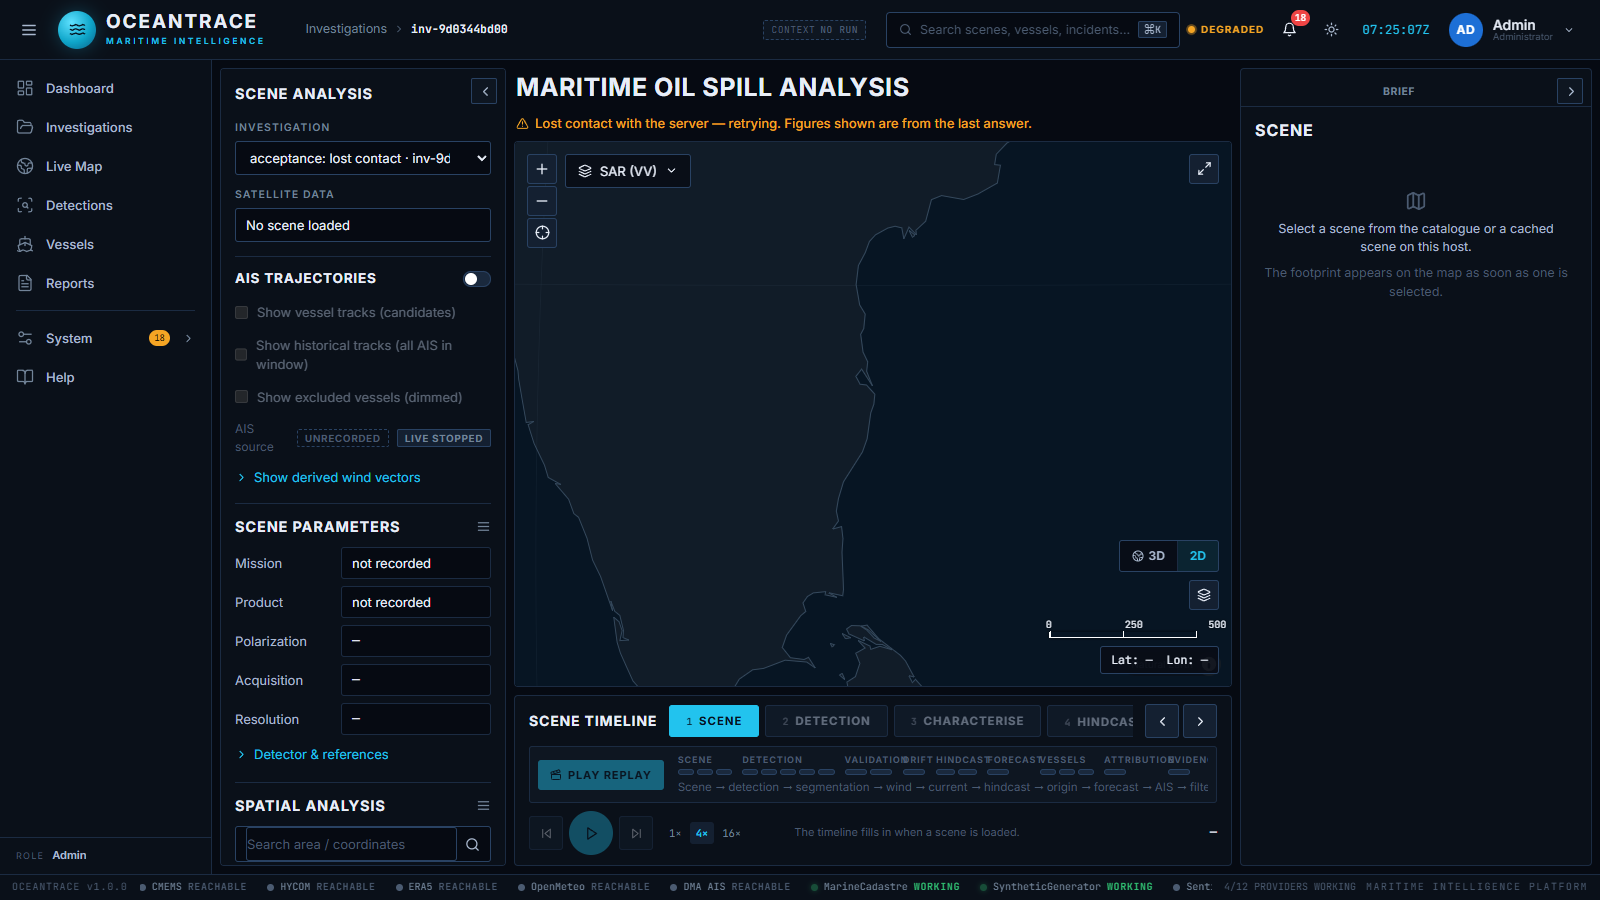
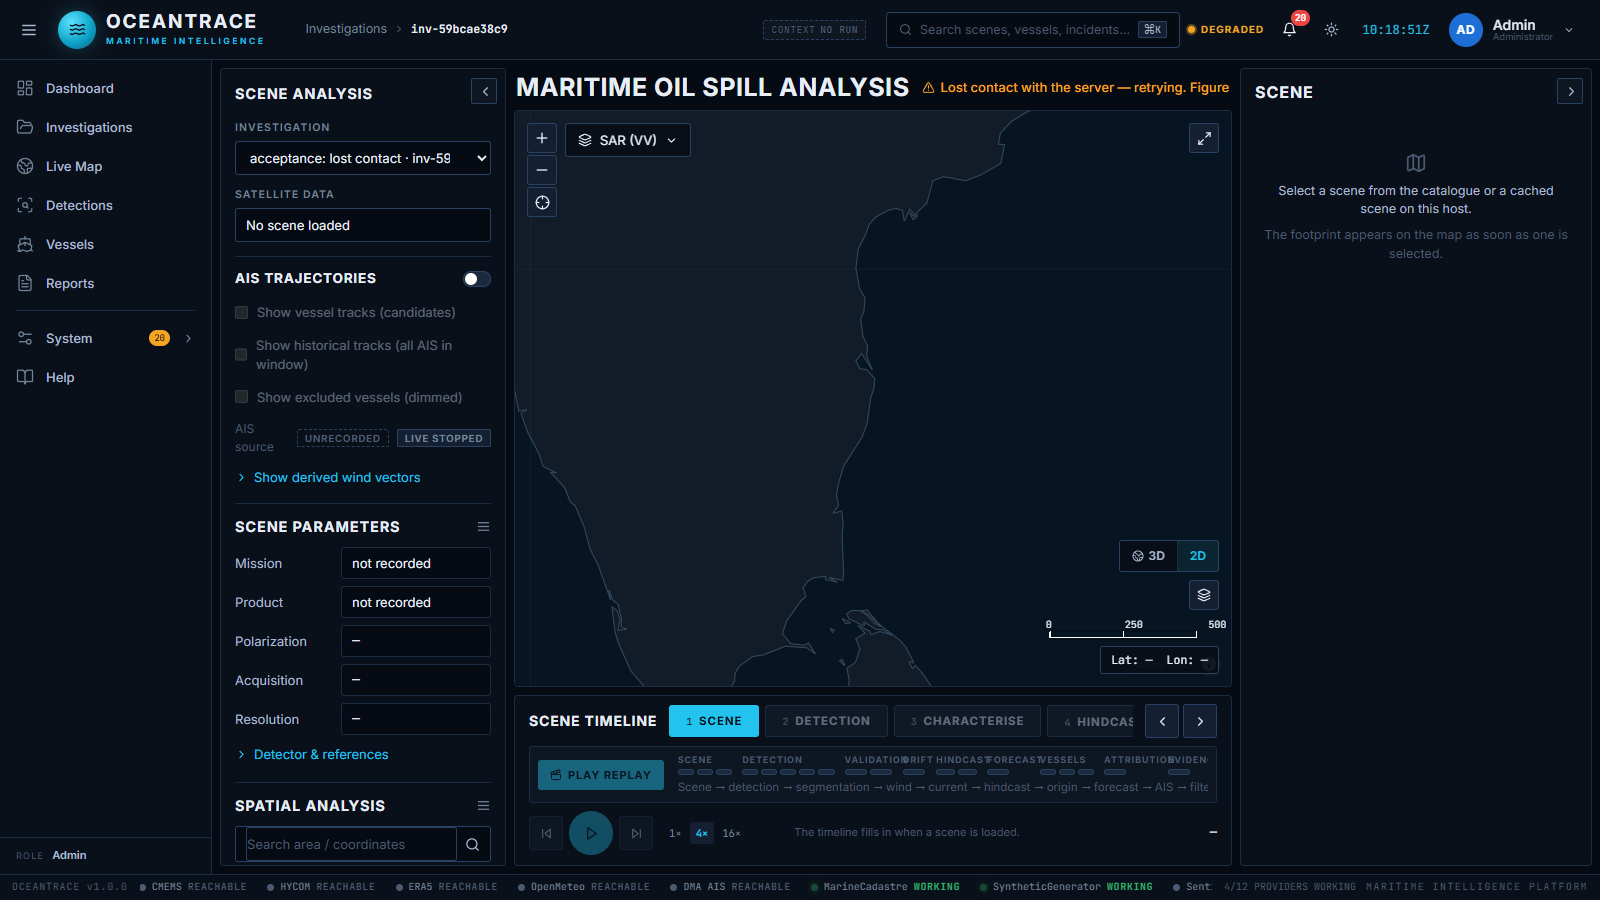
Analysis workspace restored to the old visual on the new engine: overlaid deck canvas, zoom-driven projection, camera released before load, compact header

diff --git a/main_system/frontend/src/components/maps/MaritimeGlobe.jsx b/main_system/frontend/src/components/maps/MaritimeGlobe.jsx
@@ -28,6 +28,18 @@ import "./maps.css";
 maplibregl.config.MAX_PARALLEL_IMAGE_REQUESTS = 4;
 export const SAR_TILE_MIN_ZOOM = 10;
 
+/* Globe when the view is of the planet, flat chart when it is of a region.
+ * While MapLibre reports a globe projection, deck draws through its globe
+ * view at EVERY zoom, and that view cannot draw billboard text, dashed paths
+ * or trips -- the workspace's callouts, AIS gaps and drift trail. So the
+ * projection follows the zoom, with hysteresis so a view hovering at the
+ * threshold does not flip back and forth. */
+const FLAT_AT = 5.0;
+const GLOBE_AT = 4.4;
+/** @param {number} zoom @param {"globe"|"mercator"} current @returns {"globe"|"mercator"} */
+export const projectionFor = (zoom, current) => (
+  current === "mercator" ? (zoom < GLOBE_AT ? "globe" : "mercator") : (zoom >= FLAT_AT ? "mercator" : "globe"));
+
 /** The run's quicklook. One URL for the whole app: the map and the analysis
  *  panels show the same image, so it is fetched once and served from cache
  *  rather than rendered three times from a 600 Mpx raster (BACKEND_GAPS G15). */
@@ -64,10 +76,16 @@ export function withSar(style, sar, origin) {
   };
 }
 
-/** @param {{layers: any[], onReady: (o: MapboxOverlay) => void}} props */
+/* OVERLAID, not interleaved. Interleaved draws deck's layers into MapLibre's
+ * own depth buffer, where everything at sea level fights the globe surface for
+ * the same depth: fills break into specks, text disappears, glow trails thin
+ * to nothing (seen side by side against the pre-refactor workspace). Overlaid
+ * gives deck its own canvas above the map, registered to the same camera
+ * (0.0 px in both projections -- GLOBE_ARCHITECTURE.md section 2).
+ * @param {{layers: any[], onReady: (o: MapboxOverlay) => void}} props */
 function DeckOverlay({ layers, onReady }) {
   const overlay = /** @type {MapboxOverlay} */ (/** @type {unknown} */ (
-    useControl(() => /** @type {any} */ (new MapboxOverlay({ interleaved: true, layers: [] })))));
+    useControl(() => /** @type {any} */ (new MapboxOverlay({ interleaved: false, layers: [] })))));
   useEffect(() => { onReady(overlay); }, [overlay, onReady]);
   overlay.setProps({ layers });
   return null;
@@ -107,19 +125,21 @@ const MaritimeGlobe = forwardRef(function MaritimeGlobe(/** @type {GlobeProps} *
   /** A flight asked for before the map loaded (a deep link's first act). */
   const pending = useRef(/** @type {null | [Partial<Camera>, number]} */ (null));
   const ready = useRef(false);
+  const pendingFit = useRef(/** @type {null | [number[], number, any]} */ (null));
   const [hovering, setHovering] = useState(false);
   const [sarState, setSarState] = useState(/** @type {"idle"|"loading"|"ready"|"error"} */ ("idle"));
-  const [view, setView] = useState({ zoom: initialCamera.zoom, projection: "globe" });
+  const [view, setView] = useState(/** @type {{zoom: number, projection: "globe"|"mercator"}} */ ({
+    zoom: initialCamera.zoom, projection: projectionFor(initialCamera.zoom, "globe") }));
 
   const origin = typeof window !== "undefined" ? window.location.origin : "";
   const resolved = resolveBasemap(basemap, MAP_CONFIG);
   const showKey = JSON.stringify(show || {});
   const sarKey = sar && sar.visible !== false ? `${sar.runId}|${sar.bbox?.join(",")}` : "";
   const style = useMemo(
-    () => withSar(buildStyle({ basemap, theme, graticule, show, origin }), sar, origin),
+    () => withSar(buildStyle({ basemap, theme, graticule, show, origin, projection: view.projection }), sar, origin),
     // `show` and `sar` are compared by value: callers pass fresh literals.
     // eslint-disable-next-line react-hooks/exhaustive-deps
-    [basemap, theme, graticule, showKey, sarKey, origin]);
+    [basemap, theme, graticule, showKey, sarKey, origin, view.projection]);
 
   const cameraOf = () => {
     const m = mapRef.current?.getMap?.();
@@ -145,13 +165,16 @@ const MaritimeGlobe = forwardRef(function MaritimeGlobe(/** @type {GlobeProps} *
       // than the camera looping out to orbit and back.
       else m.flyTo({ ...opts, duration: ms, curve: 1.1, essential: true });
     },
-    /** @param {number[]} bbox @param {number} [ms] */
-    fitBounds: (bbox, ms = 1400) => {
+    /** Frame a [w, s, e, n] box. The map does the fitting: it knows its real
+     *  size, and a caller computing a zoom before the map exists gets it wrong.
+     *  @param {number[]} bbox @param {number} [ms] @param {{padding?: number, maxZoom?: number}} [o] */
+    fitBounds: (bbox, ms = 1400, o = {}) => {
       const m = mapRef.current?.getMap?.();
-      if (!m) return;
+      if (!m || !ready.current) { pendingFit.current = [bbox, ms, o]; return; }
       const el = m.getContainer();
-      api.flyTo({ longitude: (bbox[0] + bbox[2]) / 2, latitude: (bbox[1] + bbox[3]) / 2,
-        zoom: zoomForBbox(bbox, el.clientWidth, el.clientHeight) }, ms);
+      const cam = m.cameraForBounds([[bbox[0], bbox[1]], [bbox[2], bbox[3]]], { padding: o.padding ?? 70 });
+      const zoom = Math.min(cam?.zoom ?? zoomForBbox(bbox, el.clientWidth, el.clientHeight), o.maxZoom ?? 16);
+      api.flyTo({ longitude: (bbox[0] + bbox[2]) / 2, latitude: (bbox[1] + bbox[3]) / 2, zoom, bearing: 0, pitch: 0 }, ms);
     },
     /** @param {number} d */
     zoomBy: (d) => mapRef.current?.getMap?.()?.easeTo({ zoom: (mapRef.current.getMap().getZoom() || 0) + d, duration: 300 }),
@@ -204,11 +227,26 @@ const MaritimeGlobe = forwardRef(function MaritimeGlobe(/** @type {GlobeProps} *
   };
   useEffect(() => () => cancelAnimationFrame(hoverFrame.current), []);
 
+  /* The camera is usable as soon as the map object exists and its style has
+   * arrived. It must NOT wait for MapLibre's `load`: that event waits for every
+   * source, and the SAR quicklook of a large scene takes ~20 s to render, so a
+   * deep link to the detection stage sat at the default view for 20 seconds. */
+  const flushPending = () => {
+    if (!mapRef.current?.getMap?.()) return;
+    ready.current = true;
+    const p = pending.current; pending.current = null;
+    const f = pendingFit.current; pendingFit.current = null;
+    if (f) api.fitBounds(f[0], Math.min(f[1], 900), f[2]); else if (p) api.flyTo(p[0], Math.min(p[1], 900));
+  };
+
   /** @param {boolean} end */
   const report = (end) => {
     const c = cameraOf();
     if (!c) return;
-    if (end) setView({ zoom: c.zoom, projection: mapRef.current?.getMap?.()?.getProjection?.()?.type || "globe" });
+    // Decided when a move ENDS, never during one: changing projection swaps
+    // the style, and a style swap mid-flight aborts the flight (a flight from
+    // the default view to the Gulf of Mexico stopped over Mozambique).
+    if (end) setView((v) => ({ zoom: c.zoom, projection: projectionFor(c.zoom, v.projection) }));
     onCameraChange?.(c, { end });
   };
   const lastMove = useRef(0);
@@ -258,7 +296,8 @@ const MaritimeGlobe = forwardRef(function MaritimeGlobe(/** @type {GlobeProps} *
         cursor={cursor || (hovering ? "pointer" : "grab")}
         onMove={() => { const now = performance.now(); if (now - lastMove.current > 120) { lastMove.current = now; report(false); } }}
         onMoveEnd={() => report(true)}
-        onLoad={() => { ready.current = true; const p = pending.current; pending.current = null; if (p) api.flyTo(p[0], Math.min(p[1], 900)); report(true); }}
+        onStyleData={flushPending}
+        onLoad={() => { flushPending(); report(true); }}
         onClick={(e) => { const info = infoAt(e); if (!toLayer("onClick", info)) onClick?.(info); }}
         onMouseMove={handleMove}
         onMouseOut={() => { setHovering(false); onHover?.({ object: null, layer: null, coordinate: undefined }); }}
@@ -271,7 +310,9 @@ const MaritimeGlobe = forwardRef(function MaritimeGlobe(/** @type {GlobeProps} *
           Satellite basemap not configured — showing the vector basemap
         </div>
       )}
-      {sarState === "loading" && (
+      {/* Only while the quicklook is what the view needs: from z10 the tile
+          pyramid draws the scene and the quicklook is irrelevant. */}
+      {sarState === "loading" && view.zoom < SAR_TILE_MIN_ZOOM && (
         <div className="mg-note mg-note-busy" role="status" data-testid="sar-note">
           <span className="spinner" /> Loading SAR scene…
         </div>

diff --git a/main_system/frontend/src/pages/Investigation.jsx b/main_system/frontend/src/pages/Investigation.jsx
@@ -66,24 +66,21 @@ const LAYER_STAGE = {
 const isoDay = (d) => new Date(d).toISOString().slice(0, 10);
 
 /** Strip the map's own report marker, so a derived view reads as a command. */
-const stripEcho = ({ __echo, ...v }) => v;
+const stripEcho = ({ __echo, fitBbox, fitPad, ...v }) => v;
 const FLY = { transitionDuration: 900, transitionInterpolator: new FlyToInterpolator() };
 
 /** Fit a bbox in the current viewport size, with an eased flight. */
 const CUT = { transitionDuration: 0, transitionInterpolator: undefined };
 
-function fitView(viewIn, size, bbox, pad = 70, motion = FLY) {
+function fitView(viewIn, _size, bbox, pad = 70, motion = FLY) {
   // A camera the map reported is tagged; a camera built here is a command.
-  const { __echo, ...view } = viewIn;
-  if (!bbox || !size?.width) return { ...view, longitude: (bbox?.[0] + bbox?.[2]) / 2 || view.longitude, latitude: (bbox?.[1] + bbox?.[3]) / 2 || view.latitude, ...motion };
-  try {
-    const vp = new WebMercatorViewport({ ...view, width: size.width, height: size.height });
-    const { longitude, latitude, zoom } = vp.fitBounds([[bbox[0], bbox[1]], [bbox[2], bbox[3]]], { padding: pad });
-    // ESRI World Imagery serves placeholder tiles offshore past ~z13; SAR tiles go to z16.
-    return { ...view, longitude, latitude, zoom: Math.min(zoom, 13.2), pitch: 0, bearing: 0, ...motion };
-  } catch {
-    return view;
-  }
+  // The command is "frame this box": the map fits it with its real size and
+  // projection (WorkspaceMap -> MaritimeGlobe.fitBounds). Working the zoom out
+  // here needed the viewport size, which is not known until the map has
+  // loaded -- so the first flight of every page load kept the default zoom.
+  const { __echo, fitBbox: _old, fitPad: _p, ...view } = viewIn;
+  if (!bbox) return view;
+  return { ...view, fitBbox: bbox, fitPad: pad, pitch: 0, bearing: 0, ...motion };
 }
 
 function bboxOfTracks(vessels) {
@@ -1139,7 +1136,7 @@ function InvestigationWorkspace() {
                 <line x1={centroidPx[0]} y1={centroidPx[1]} x2={Math.min(centroidPx[0] + 120, (viewport?.width || 0) - 250)} y2={centroidPx[1] - 40} />
                 <circle cx={centroidPx[0]} cy={centroidPx[1]} r={7} />
               </svg>
-              <div className="ws-callout" style={{ left: Math.min(centroidPx[0] + 120, (viewport?.width || 0) - 250), top: centroidPx[1] - 40 }} data-testid="slick-callout">
+              <div className="ws-callout" style={{ left: Math.min(centroidPx[0] + 120, (viewport?.width || 0) - 250), top: Math.max(8, centroidPx[1] - 40) }} data-testid="slick-callout">
                 <div className="ws-callout-title">{stageId === "validation" ? "Validation" : "Candidate slick"}</div>
                 {stageId === "validation" ? (
                   <>

diff --git a/main_system/frontend/src/components/workspace/IntelPanels.jsx b/main_system/frontend/src/components/workspace/IntelPanels.jsx
@@ -797,11 +797,6 @@ export function AttributionPanel({ ctx }) {
             <div className="ip-r"><span className="ip-rk">AIS source</span><span className={`badge badge-${prov.tone}`} data-testid="attr-ais-source">{prov.label}</span></div>
             {prov.label === "SYNTHETIC" && <div className="ip-note">Synthetic AIS carries no identity: the MMSI is the whole record.</div>}
           </Section>
-          <Section title="Seen before" testid="attr-history">
-            {/* The cross-run index: every other run that considered this MMSI,
-                which is the question a second sighting of a ship raises. */}
-            <VesselHistory dossier={d} exceptRun={runRow?.id} />
-          </Section>
           <Section title="Attribution analysis" testid="attr-analysis">
             {FACTORS.map(([k, label]) => s.sub_scores?.[k] != null && (
               <FactorBar key={k} name={label} value={s.sub_scores[k]} weight={sus?.weights?.[k]} tone="accent" />
@@ -812,6 +807,11 @@ export function AttributionPanel({ ctx }) {
               <span className="ip-combined-v mono" data-testid="attr-score">{num(s.total_score, 2)}</span>
             </div>
             <div className="ip-note"><Info size={12} /> Score indicates relative likelihood based on available evidence. Not a definitive determination of responsibility.</div>
+          </Section>
+          <Section title="Seen before" testid="attr-history">
+            {/* The cross-run index: every other run that considered this MMSI,
+                which is the question a second sighting of a ship raises. */}
+            <VesselHistory dossier={d} exceptRun={runRow?.id} />
           </Section>
           {list.length > 1 && (
             <Section title="Other candidates" open={false}>

diff --git a/main_system/frontend/src/components/workspace/RightPanel.jsx b/main_system/frontend/src/components/workspace/RightPanel.jsx
@@ -27,15 +27,24 @@ const PER_STAGE = {
  * and then mounted nowhere. */
 const BRIEF = ["brief", "Brief"];
 
-export const CONTEXTS = new Proxy(PER_STAGE, {
-  get: (target, stage) => (typeof stage === "string"
-    ? [...(target[stage] || []), BRIEF] : target[stage]),
-});
+/** The contexts a stage offers: its own, then the brief. */
+export const contextsFor = (stage) => [...(PER_STAGE[stage] || []), BRIEF];
+
+/* Kept for callers that index by stage: a plain object, built once. */
+export const CONTEXTS = Object.fromEntries(
+  ["acquisition", "scene", "preprocess", "tiling", "detection", "validation", "geometry", "drift",
+    "ais", "attribution", "evidence", "report"].map((st) => [st, contextsFor(st)]));
 
 export const defaultContext = (stage) => PER_STAGE[stage]?.[0]?.[0] ?? null;
 
 export default function RightPanel({ ctx }) {
-  const options = CONTEXTS[ctx.stage];
+  /* A stage with contexts of its own gains "Brief" at the end of its strip. A
+   * stage without any keeps the panel it always had, with no strip -- until
+   * the brief is opened (the header's "Case brief"), when a two-tab strip is
+   * the way back. A lone "BRIEF" tab over every such panel read as a heading. */
+  const own = PER_STAGE[ctx.stage];
+  const options = own ? [...own, BRIEF]
+    : ctx.sub === "brief" ? [["main", "Analysis"], BRIEF] : null;
   const sub = options?.some(([id]) => id === ctx.sub) ? ctx.sub : defaultContext(ctx.stage);
   let body;
   switch (sub) {

diff --git a/main_system/frontend/src/components/maps/basemaps.js b/main_system/frontend/src/components/maps/basemaps.js
@@ -102,8 +102,10 @@ export const LABELS_ANCHOR = "ot-labels-anchor";
  * @param {{countries?: boolean, coastlines?: boolean, labels?: boolean}} [o.show]
  * @param {string} [o.origin]  where /geo and /fonts are served from
  * @param {ReturnType<typeof readMapConfig>} [o.config]
+ * @param {"globe"|"mercator"} [o.projection]
  */
-export function buildStyle({ basemap, theme = "dark", graticule: grid = true, show = {}, origin, config = MAP_CONFIG }) {
+export function buildStyle({ basemap, theme = "dark", graticule: grid = true, show = {}, origin, config = MAP_CONFIG,
+  projection = "globe" }) {
   const { id } = resolveBasemap(basemap, config);
   const base = origin ?? (typeof window !== "undefined" ? window.location.origin : "");
   const ink = INK[id === "dark" ? "dark" : "geopolitical"][theme === "light" ? "light" : "dark"];
@@ -169,7 +171,7 @@ export function buildStyle({ basemap, theme = "dark", graticule: grid = true, sh
   return {
     version: 8,
     name: `oceantrace-${id}-${theme}`,
-    projection: { type: "globe" },
+    projection: { type: projection === "mercator" ? "mercator" : "globe" },
     glyphs: `${base}/fonts/{fontstack}/{range}.pbf`,
     sky: { "atmosphere-blend": ["interpolate", ["linear"], ["zoom"], 0, 0.6, 5, 0.15, 7, 0] },
     sources,

diff --git a/main_system/frontend/src/workspace.css b/main_system/frontend/src/workspace.css
@@ -540,3 +540,17 @@
 [data-testid="intel-bayes"] .he-stats { grid-template-columns: repeat(2, minmax(0, 1fr)); }
 .ws-leave { font-size: 11.5px; color: var(--ink-2); }
 .ws-ok.ws-lost { color: var(--warn); border-color: rgba(245, 165, 36, 0.45); }
+
+/* Header discipline: the map is the page. Title and badges on one line, the
+   scene on one line, the case facts on one line -- three rows, as before the
+   fact strip existed. Anything that does not fit is ellipsed, never wrapped
+   into a fourth row that pushes the map down. */
+.ws-headline-main { flex-wrap: nowrap; overflow: hidden; }
+.ws-headline-main > * { flex-shrink: 0; }
+/* The title is never the thing that gives way: trailing badges are. */
+.ws-headline-main .ws-title { flex-shrink: 0; white-space: nowrap; }
+.ws-sub { white-space: nowrap; overflow: hidden; text-overflow: ellipsis; margin-top: 1px; }
+.ws-facts { flex-wrap: nowrap; overflow: hidden; margin-top: 3px; gap: 0 16px; }
+.ws-fact { flex-shrink: 0; }
+.ws-fact-more { flex-shrink: 0; }
+.ws-leave { white-space: nowrap; overflow: hidden; text-overflow: ellipsis; flex-shrink: 1 !important; min-width: 0; }

diff --git a/main_system/frontend/src/components/workspace/WorkspaceMap.jsx b/main_system/frontend/src/components/workspace/WorkspaceMap.jsx
@@ -146,7 +146,9 @@ export default function WorkspaceMap({
   });
   useEffect(() => {
     if (!view || view.__echo) return;
-    globe.current?.flyTo(view, view.transitionDuration ?? 0);
+    // "Frame this box" is the map's to work out; "go here" is a plain flight.
+    if (view.fitBbox) globe.current?.fitBounds(view.fitBbox, view.transitionDuration ?? 0, { padding: view.fitPad ?? 70, maxZoom: 13.2 });
+    else globe.current?.flyTo(view, view.transitionDuration ?? 0);
   }, [view]);
 
   const handleCamera = useCallback((camera, info) => {

diff --git a/docs/ux/UX_CHANGES.md b/docs/ux/UX_CHANGES.md
@@ -614,3 +614,41 @@ raster unavailable"; "50 % contour not recorded for this run"; "No scene loaded"
 | `docs/ux/acceptance/*.png` | 20 screenshots from the acceptance walkthrough |
 | `DEMO_RUNBOOK.md` | now opens with the one-click demo case |
 | `scripts/build_basemap_natural_earth.py` | rebuilds the bundled basemap |
+
+---
+
+## Analysis workspace restored to the old visual - 2026-09-21
+
+Reported by the user after the run: the Analysis (investigation workspace)
+looked broken next to the previous version. It was, and the cause was mine -
+the P3 port of the workspace map onto the new engine. Nothing in the backend,
+the APIs or the other sections was touched to fix it.
+
+**Method.** The pre-refactor frontend was built from git (`64603f8`) and served
+beside the current one against the same backend; both were screenshotted on the
+flagship run at detection, characterisation, drift, AIS and attribution. The old
+build is the visual reference; the new backend data drives both.
+
+**What was broken, and is fixed** (detail in GLOBE_ARCHITECTURE section 4):
+fragmented slick fills and vanished glow trails; every map callout and rank
+badge missing; Detection opening at the wrong camera for ~20 s with no SAR
+tiles, tile frame or candidate callout; the first camera fit of a page load
+ignored; script errors on every workspace load (`RightPanel`'s `Proxy` threw
+for any non-stage key).
+
+**Structure, back to the old proportions.** The header had grown to five rows
+(wrapped badges, scene line, fact strip, a button on its own row) and pushed
+the map down 75 px. It is three rows again - title + badges, scene, facts -
+each a single line that ellipses rather than wraps; the title never gives way
+to a badge. The right panel shows a context strip only on stages that have
+contexts (with Brief appended); stages without one get their old panel back,
+and a two-tab strip appears only while the brief is open. Attribution analysis
+is above "Seen before" again.
+
+**Kept from P3-P10**, because they are backend-true and do not disturb the old
+visual: the case-fact strip, numbered stepper, real stage progress and SSE,
+both hindcast contours, the Bayesian context, the shared vessel identity, AIS
+gaps, honest scene facts, the shared clock.
+
+**Result.** Side by side, the map at each compared stage now matches the old
+one; e2e 35/35, unit 245/245, lint and maps typecheck clean.

diff --git a/docs/ux/GLOBE_ARCHITECTURE.md b/docs/ux/GLOBE_ARCHITECTURE.md
@@ -136,3 +136,22 @@ frame on every page with a globe, to make the Earth drift under a still mouse.
 frame. `MAX_PARALLEL_IMAGE_REQUESTS = 4`. The JS bundle is currently one
 4.07 MB chunk (MapLibre is now a static import of the shell's dashboard);
 route-level code splitting is scheduled for P9.
+
+## 4. Correction after the Analysis regression (2026-09-21)
+
+Section 3 says the deck overlay is *interleaved*. It is now **overlaid**, and
+the map's projection **follows the zoom**. Both came from putting the ported
+workspace next to the pre-refactor one, stage by stage, on the same run:
+
+| Symptom in the workspace | Cause | Fix |
+|---|---|---|
+| slick fills broken into specks, glow trails thinned to nothing | interleaved deck layers share MapLibre's depth buffer; everything at sea level fights the globe surface | `MapboxOverlay({ interleaved: false })` - deck on its own canvas, same camera (0.0 px registration, section 2) |
+| every text callout missing (FORECAST POINT, ORIGIN POINT, DETECTED SLICK, rank badges) | while MapLibre reports a globe projection, deck draws through `_GlobeView` at **every** zoom, and that view cannot draw billboard text, dashed paths or trips | `projectionFor(zoom)`: globe below z4.4, mercator from z5.0 (hysteresis), decided only when a move **ends** - switching mid-flight swaps the style and aborts the flight |
+| a deep link to Detection sat at the default camera for ~20 s | camera commands were held until MapLibre's `load`, which waits for every source - including the SAR quicklook that takes ~20 s to render | commands are released on `styledata` |
+| first flight of each page load kept the default zoom | the page computed the fit zoom itself and needed the viewport size before the map existed | "frame this box" is a command the map executes (`fitBounds` via `cameraForBounds`) |
+
+The spike (section 1) tested fills, paths, scatter and rasters. It did not
+test `TextLayer`, and it judged the interleaved fills from a world-zoom
+screenshot where the damage is invisible. Both omissions are why this was
+found by the user and not by the spike. `tests-e2e/tools/_cmp.mjs` (old build
+vs new, same run, per stage) is the check that would have caught it.
